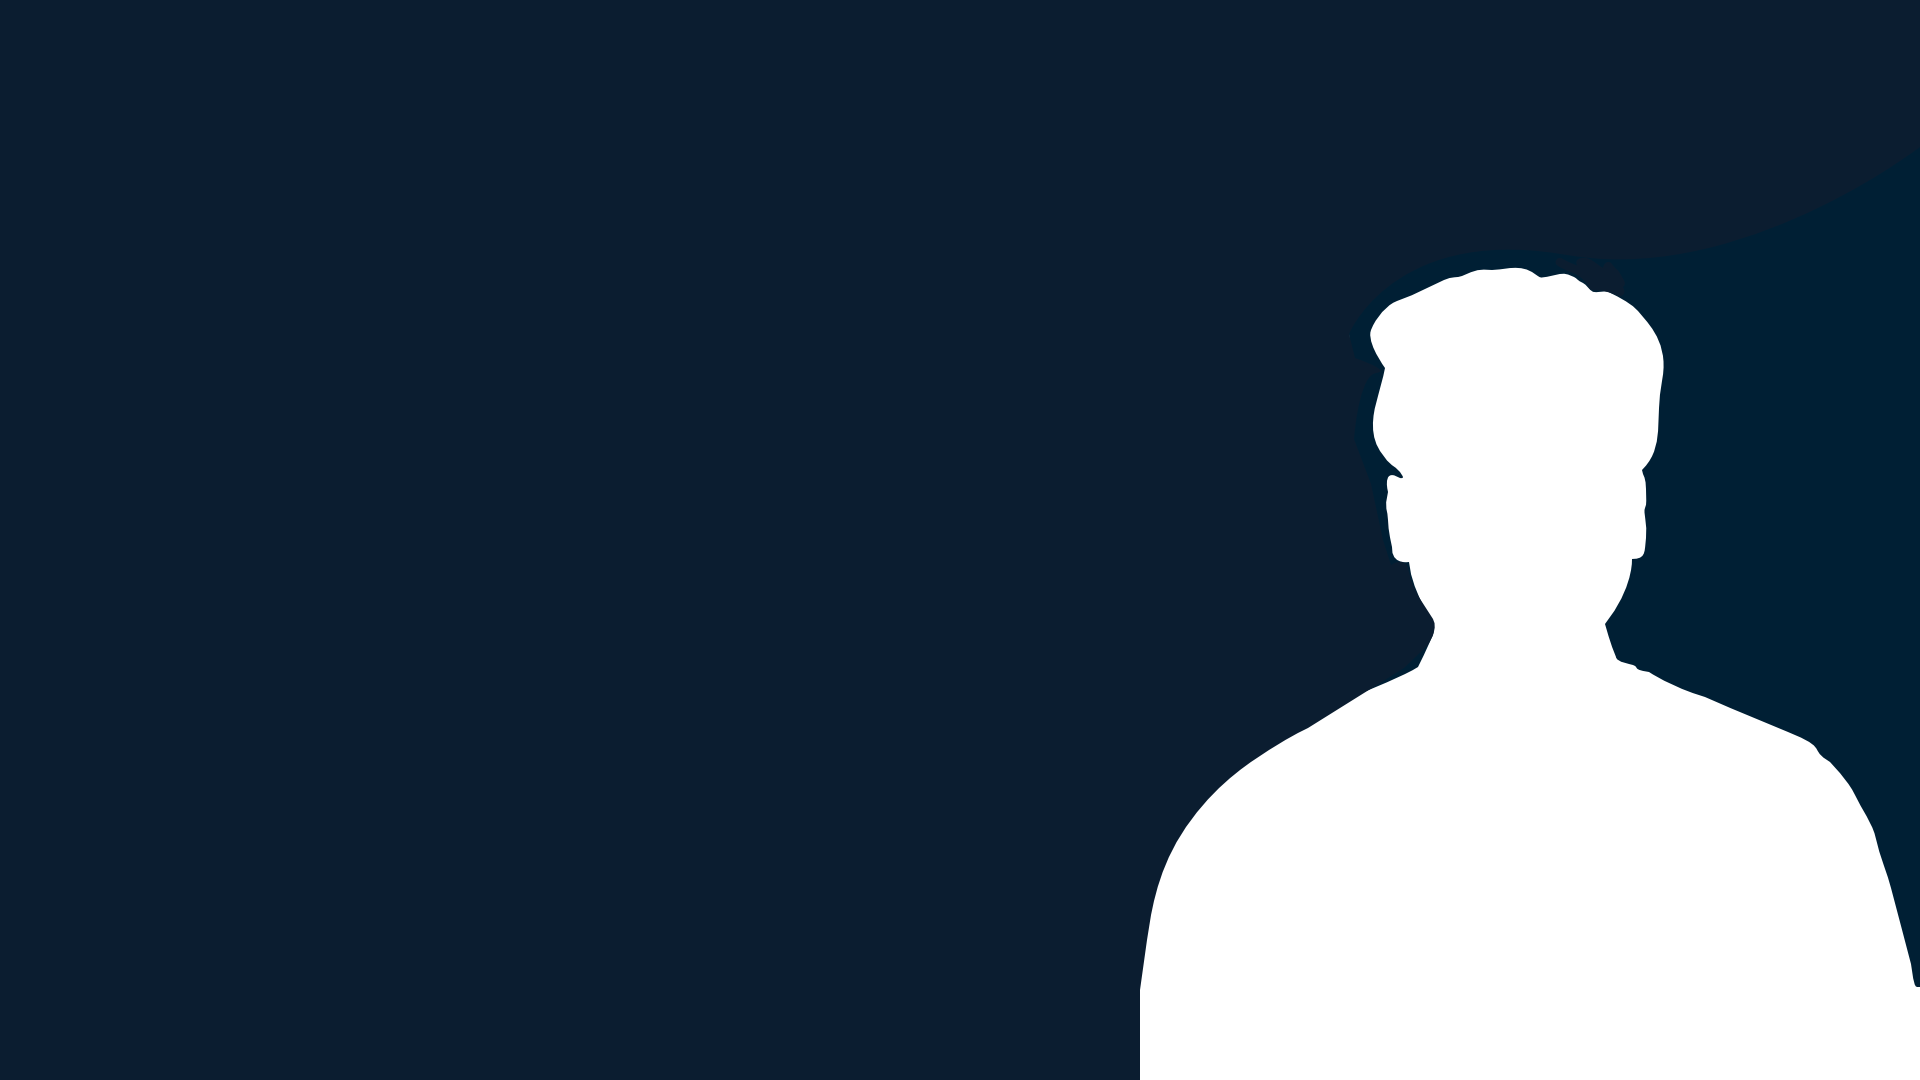
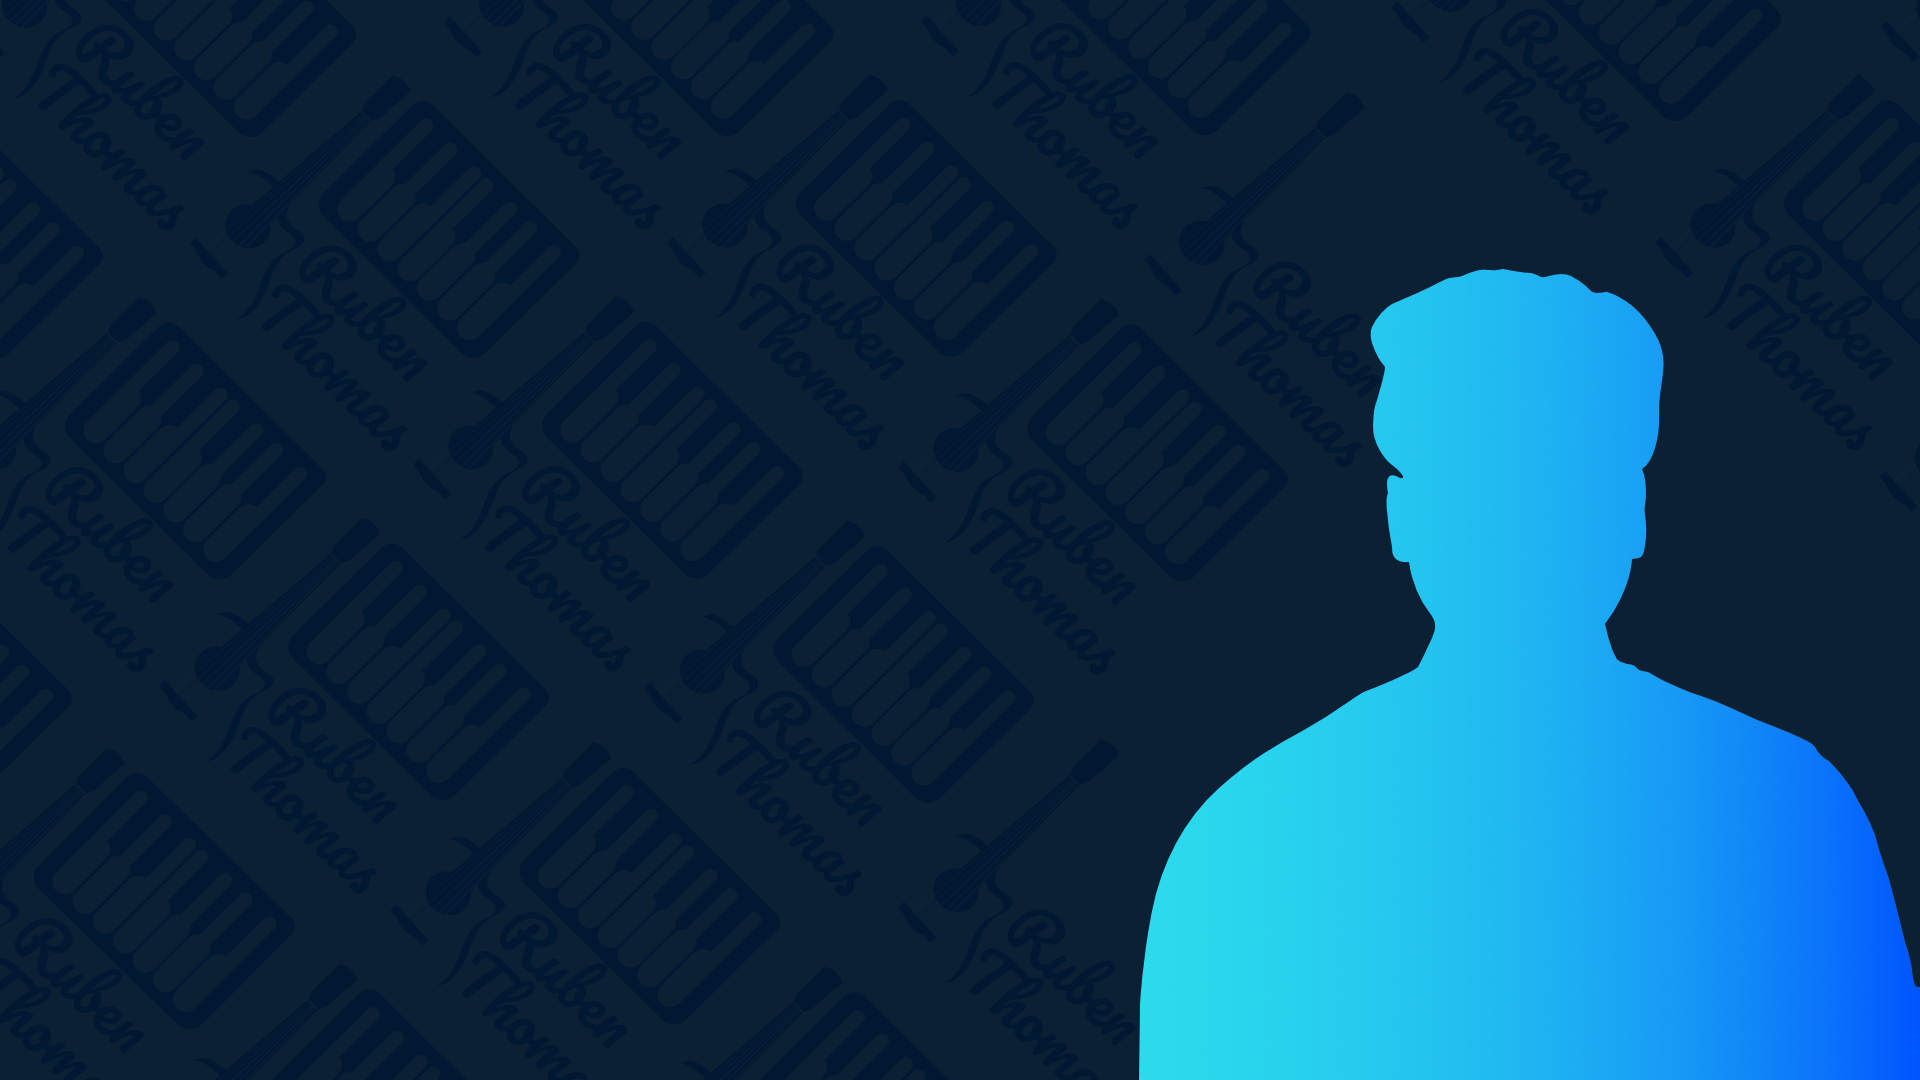
Background update

Changed region(s): [[0.5938, 0.2444, 1.0, 1.0]]

diff --git a/src/Skills.js b/src/Skills.js
@@ -1,13 +1,14 @@
 import React from 'react';
 
 import './App.css';
+import './Skills.css'
 import Header from './Header';
 import Button from 'react-bootstrap/Button';
 import {Container, Card} from 'react-bootstrap';
 import Row from 'react-bootstrap/Row';
 import Col from 'react-bootstrap/Col';
 import 'bootstrap/dist/css/bootstrap.min.css';
-import bg from "../src/assets/bg1.png";
+import bg from "../src/assets/bg1Art.png";
 import rutgers from "../src/assets/rutgers_logo.jpg";
 import gm from "../src/assets/gm_small.png";
 import code from "../src/assets/code_logo.png";
@@ -31,22 +32,21 @@ class Skills extends React.Component {
    render() {
       return (
          <Container fluid style={styles}>
-            <Row style={{maxWidth: "60vw", paddingTop: 100, paddingLeft: 100}}>
-               <Col style={{ padding: 50, maxWidth: "25vw"}}>
-                  <Card style={{padding: 10}}>
+            <Row className="topRow">
+               <Col sm="12" md="12" lg="6" style={{padding: 40}}>
+                  <Card style={{padding: 30, minWidth: "250px"}}>
                      <Card.Img src={rutgers}></Card.Img>
                      <Card.Title>Education</Card.Title>
                      <Card.Body>
                         <ul className="list-group list-group-flush">
-                           <li className="list-group-item">Rutgers University - Computer Science, BS 2021</li>
+                           <li className="list-group-item">Rutgers University - Computer Science BS, Economics Minor January 2021</li>
                            <li className="list-group-item">East Brunswick Highschool - 2017</li>
                         </ul></Card.Body>
                   </Card>
-                  
-                  
-               </Col>
-               <Col style={{ padding: 50, maxWidth: "25vw"}}>
-                  <Card style={{padding: 10}}>
+                  </Col>
+               <Col sm="12" md="12" lg="6" style={{padding: 40}}>  
+               
+                  <Card style={{padding: 30, minWidth: "250px"}}>
                      <Card.Img src = {gm} ></Card.Img>
                      <Card.Title>Experience</Card.Title>
                      <Card.Body>
@@ -58,10 +58,9 @@ class Skills extends React.Component {
                   
                   
                </Col>
-            </Row>
-            <Row style={{maxWidth: "60vw", paddingLeft: 100}}>
-            <Col style={{ padding: 50, maxWidth: "25vw"}}>
-                  <Card style={{padding: 30}}>
+            
+            <Col sm="12" md="12" lg="6" style={{padding: 40}}>
+                  <Card style={{padding: 30, minWidth: "250px"}}>
                      <Card.Img src = {code} ></Card.Img>
                      <Card.Title>Skills</Card.Title>
                      <Card.Body>
@@ -73,8 +72,8 @@ class Skills extends React.Component {
                
                   
                </Col>
-               <Col style={{ padding: 50, maxWidth: "25vw"}}>
-                  <Card style={{padding: 30}}>
+               <Col sm="12" md="12" lg="6" style={{padding: 40}}>
+                  <Card style={{padding: 30, minWidth: "250px"}}>
                      <Card.Img src={social}></Card.Img>
                      <Card.Title>Follow Me</Card.Title>
                      <Card.Body>

diff --git a/src/HomeScreen.js b/src/HomeScreen.js
@@ -1,24 +1,27 @@
 import React from 'react';
-
+// 10D2D2
 import './App.css';
 import 'mdbreact/dist/css/mdb.css';
-
+import "./index.css"
 import Button from 'react-bootstrap/Button';
 import Container from 'react-bootstrap/Container';
 import Row from 'react-bootstrap/Row';
 import Col from 'react-bootstrap/Col';
 import 'bootstrap/dist/css/bootstrap.min.css';
 import face from "../src/assets/face_round.png"
-import bg from "../src/assets/bg_frame.png"
+import bg from "../src/assets/bg_frame_july2021.png"
+import logo from "../src/assets/logo.png"
+import ReactFloaterJs from 'react-floaterjs'
 var styles = {
    backgroundImage: "url(" + bg + ")",
    height: "100%",
    minHeight: "100vh",
-   width: "100vw",
+   width: "100%",
+   minWidth: "100vw",
    backgroundPosition: "center",
    backgroundRepeat: "no-repeat",
    backgroundSize: "cover",
-   backgroundColor: "#037AFF",
+   backgroundColor: "#000000",
    backgroundAttachment: "fixed",
  }
 class HomeScreen extends React.Component {
@@ -29,21 +32,12 @@ class HomeScreen extends React.Component {
       return (
          <Container fluid className="p-0" style={styles}>
            
-           <Row  className="align-items-center">
-             
-            <Col>
-              {/* <img src={face} style={{maxHeight: "60vh",maxWidth: "60vw", padding: 25}}/> */}
-              
            
-            
-              </Col>
-          
-           </Row>
-           <Row >
+           <Row style={{maxWidth: "100vw"}}>
              <Col className="d-flex justify-content-center" >
                <div style={{padding: 10}}>
                 
-                <h4 className="textTop" style={{paddingTop: "50px",fontSize: "30px", fontStyle: "italic"}}>"True humility is not thinking less of yourself; it is thinking of yourself less."</h4>
+                <h4 className="textTop" style={{paddingTop: "50px",fontSize: "30px", fontStyle: "italic"}}>"True humility is not <b style={{fontWeight: "bolder", color: "#ffffff"}}>thinking less</b> of yourself; it is thinking of yourself <b style={{fontWeight: "bolder", color: "#ffffff"}}>less</b>."</h4>
                
                 <br/>
                 <h5 className="textTop" style={{paddingLeft: "50px", fontSize: "30px",fontStyle: "italic"}}> -C.S. Lewis</h5>
@@ -52,9 +46,13 @@ class HomeScreen extends React.Component {
              </Col>
            </Row>
            
-            <Row>
-            <h1 className="textTop" style={{ padding: "200px", fontSize: "100px"}}>Hi, I'm Ruben!</h1>
             
+            <Row  >
+              <Col style ={{position:"absolute", bottom:10}} className="d-flex justify-content-center">
+              <ReactFloaterJs>
+                  <h4 style={{color: "white"}}>Scroll Down!</h4>
+                  </ReactFloaterJs>
+                </Col>
             </Row>
             
          </Container>

diff --git a/src/index.css b/src/index.css
@@ -6,14 +6,40 @@ body {
   -webkit-font-smoothing: antialiased;
   -moz-osx-font-smoothing: grayscale;
 }
-@import url('https://fonts.googleapis.com/css2?family=Quicksand:wght@600&display=swap');
+@import url('https://fonts.googleapis.com/css2?family=Comfortaa:wght@500&display=swap');
 code {
   font-family: source-code-pro, Menlo, Monaco, Consolas, 'Courier New',
     monospace;
 }
 .textTop {
   /* Prefix required. Even Firefox only supports the -webkit- prefix */
-  font-family: 'Quicksand', sans-serif;
+  font-family: 'Comfortaa', cursive;
   color: white;
   text-shadow: 2px 2px black;
+}
+@media screen and (max-width: 300px) {
+  .logo_dim {
+    width: 130;
+    max-width: 100vw;
+    height: 30;
+    background-color: red;
+  }
+}
+@media screen and (min-width: 300px) {
+  .logo_dim {
+    max-width: 500;
+    
+    height: 100;
+  }
+}
+@media screen and (min-width: 1000px) {
+  .logo_dim {
+    width: 100;
+    
+    height: 600;
+  }
+}
+
+.logo_dim {
+  
 }

diff --git a/src/Skills.css b/src/Skills.css
@@ -1,0 +1,33 @@
+@media screen and (max-width: 300px) {
+  .topRow {
+    max-width: 50vw; 
+    padding-top: 20;
+    padding-left: 20;
+  }
+  .bottomRow {
+    max-width: 60vw; 
+    padding-left: 20;
+  }
+}
+@media screen and (min-width: 300px) {
+  .topRow {
+    max-width: 50vw; 
+    padding-top: 40;
+    padding-left: 40;
+  }
+  .bottomRow {
+    max-width: 60vw; 
+    padding-left: 40;
+  }
+}
+@media screen and (min-width: 400px) {
+  .topRow {
+    max-width: 50vw; 
+    padding-top: 60;
+    padding-left: 60;
+  }
+  .bottomRow {
+    max-width: 60vw; 
+    padding-left: 60;
+  }
+}
